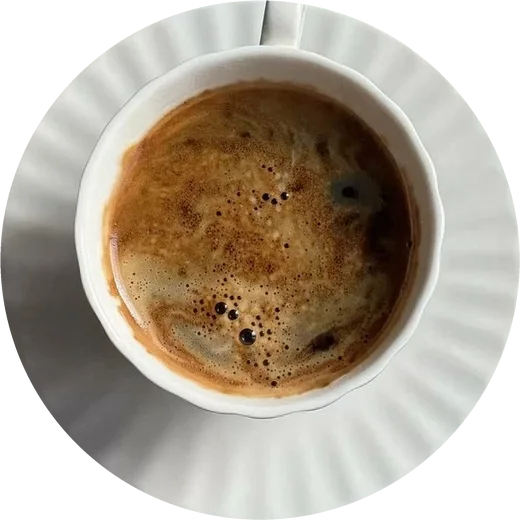
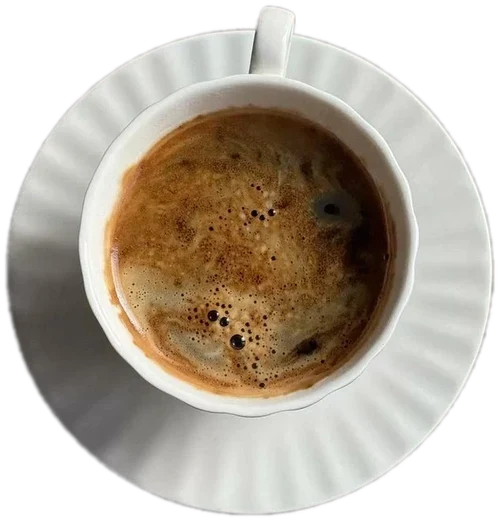
Чашки целиком с ручкой и блюдцем, птица на телефоне летит ниже

diff --git a/index.html b/index.html
@@ -77,7 +77,7 @@
   <!-- 08:00 Утро: текст слева, видео справа -->
   <section class="morning tone-dawn" id="morning">
     <img class="decor decor--hornbeam" src="img/decor/hornbeam.webp" width="834" height="658" loading="lazy" alt="">
-    <img class="decor cup cup--morning" src="img/decor/cup-espresso.webp" width="520" height="520" loading="lazy" alt="">
+    <img class="decor cup cup--morning" src="img/decor/cup-espresso.webp?v=3" width="520" height="504" loading="lazy" alt="">
     <img class="decor bean bean--m1" src="img/decor/bean-w3.webp" width="80" height="100" loading="lazy" alt="">
     <img class="decor bean bean--m2" src="img/decor/bean-w7.webp" width="80" height="100" loading="lazy" alt="">
     <div class="morning__videos" aria-hidden="true">
@@ -94,7 +94,7 @@
 
   <!-- Меню -->
   <section class="menu tone-sage" id="menu">
-    <img class="decor cup cup--menu" src="img/decor/cup-knit.webp" width="520" height="520" loading="lazy" alt="">
+    <img class="decor cup cup--menu" src="img/decor/cup-knit.webp?v=3" width="499" height="520" loading="lazy" alt="">
     <img class="decor bean bean--n1" src="img/decor/bean-w5.webp" width="80" height="100" loading="lazy" alt="">
     <div class="menu__head">
       <h2>Меню на весь день</h2>
@@ -384,6 +384,6 @@
 </footer>
 
 <script src="i18n.js?v=28" defer></script>
-<script src="script.js?v=29" defer></script>
+<script src="script.js?v=30" defer></script>
 </body>
 </html>

diff --git a/script.js b/script.js
@@ -220,7 +220,10 @@
       // Птица: взлетает над словом, машет крыльями и влетает в круглый логотип в шапке
       const t = range(p, 0.02, 0.42);
       const x = geo.birdOut.x * easeIn(t);
-      const y = geo.birdOut.y * easeOut(t) + Math.sin(t * Math.PI * 3) * 40 * t * (1 - t);
+      // на телефоне птица не взмывает сразу к верхнему краю: летит ниже и поднимается к логотипу плавно
+      const narrow = window.innerWidth <= 820;
+      const up = narrow ? t * t * (3 - 2 * t) : easeOut(t);
+      const y = geo.birdOut.y * up + Math.sin(t * Math.PI * 3) * (narrow ? 24 : 40) * t * (1 - t);
       const rot = -14 * Math.sin(Math.PI * t);
       const sc = lerp(1, geo.birdOut.sc, easeIn(t));
       bird.style.opacity = t >= 1 ? "0" : "1";
